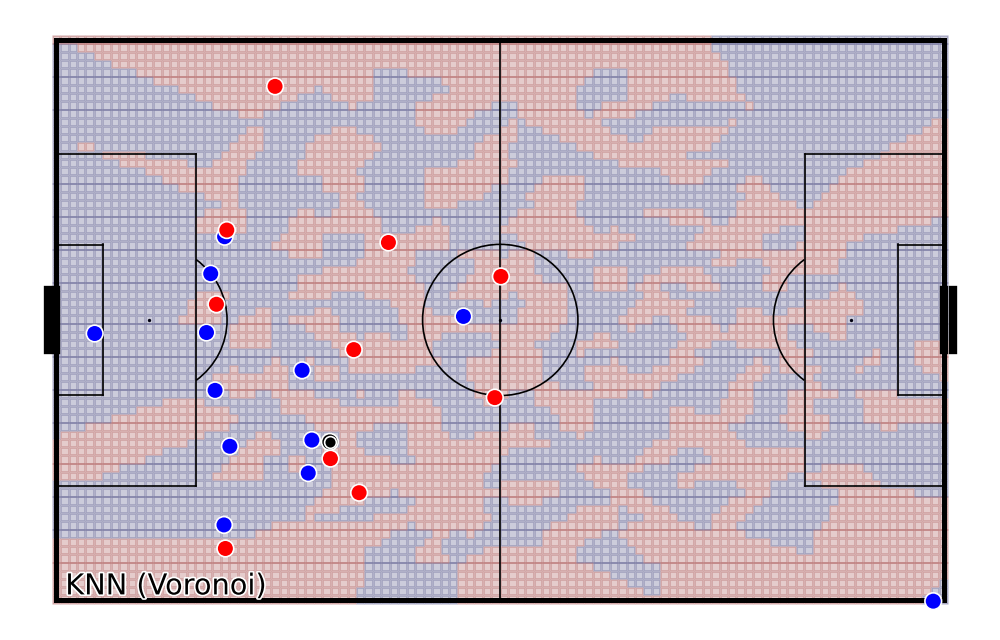
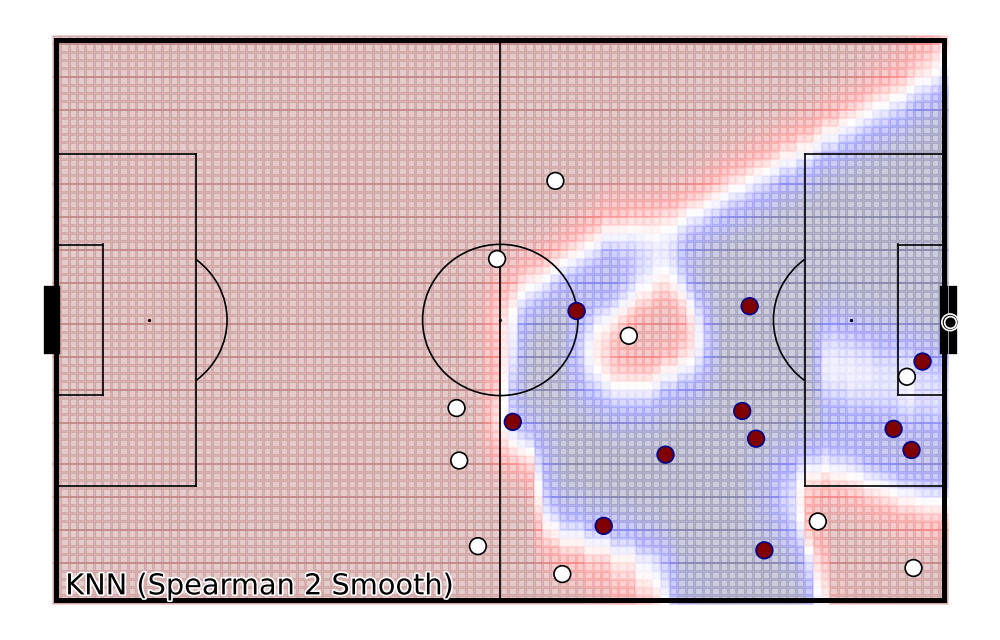
Added faster way to save results. Generate gifs.

diff --git a/lib/pitch_control.py b/lib/pitch_control.py
@@ -8,7 +8,7 @@ import matplotlib.pyplot as plt
 import matplotlib.patheffects as pe
 import lib.draw as draw
 
-def plot_pitch_control(frame, grid, control, modelname=None, dpi=120, subplot=None, savefig=None):
+def plot_pitch_control(frame, grid, control, modelname=None, title=None, dpi=120, subplot=None, savefig=None):
     '''
     Description
     -------
@@ -50,6 +50,12 @@ def plot_pitch_control(frame, grid, control, modelname=None, dpi=120, subplot=No
     if modelname != None:
         plt.text(1, 1, modelname, fontsize='xx-large',
             path_effects=[pe.withStroke(linewidth=2, foreground="white")])
+    
+    # Writing a title
+    if title != None:
+        plt.text(1, 99, title, fontsize='xx-large', va='top',
+            path_effects=[pe.withStroke(linewidth=2, foreground="white")])
+
 
     # End clauses to:
     ## Save figure in a directory
@@ -125,11 +131,21 @@ class KNNPitchControl:
 
         # Calculate smoothed variable if parameter is enabled
         if self.smoothing != None:
-            for coord in self.grid.x.unique():
-                # Across X axis
-                self.grid.loc[self.grid.x == coord, 'control'] = self.grid.loc[self.grid.x == coord, 'control'].rolling(self.smoothing, min_periods=1, center=True).mean()
-                # Across Y axis
-                self.grid.loc[self.grid.y == coord, 'control'] = self.grid.loc[self.grid.y == coord, 'control'].rolling(self.smoothing, min_periods=1, center=True).mean()
+            if type(self.smoothing) == int:
+                for coord in self.grid.x.unique():
+                    # Across X axis
+                    self.grid.loc[self.grid.x == coord, 'control'] = self.grid.loc[self.grid.x == coord, 'control'].rolling(self.smoothing, min_periods=1, center=True).mean()
+                    # Across Y axis
+                    self.grid.loc[self.grid.y == coord, 'control'] = self.grid.loc[self.grid.y == coord, 'control'].rolling(self.smoothing, min_periods=1, center=True).mean()
+            else:
+                for coord in self.grid.x.unique():
+                    # Across X axis
+                    self.grid.loc[self.grid.x == coord, 'control'] = self.grid.loc[self.grid.x == coord, 'control'
+                        ].rolling(self.smoothing[0], min_periods=1, center=True).mean().rolling(self.smoothing[1], min_periods=1, center=True).mean()
+                    # Across Y axis
+                    self.grid.loc[self.grid.y == coord, 'control'] = self.grid.loc[self.grid.y == coord, 'control'
+                        ].rolling(self.smoothing[0], min_periods=1, center=True).mean().rolling(self.smoothing[1], min_periods=1, center=True).mean()
+            
 
         # Return the grid, normalized for the interval 0-1
         return self.grid['control'] / self.grid['control'].max()
